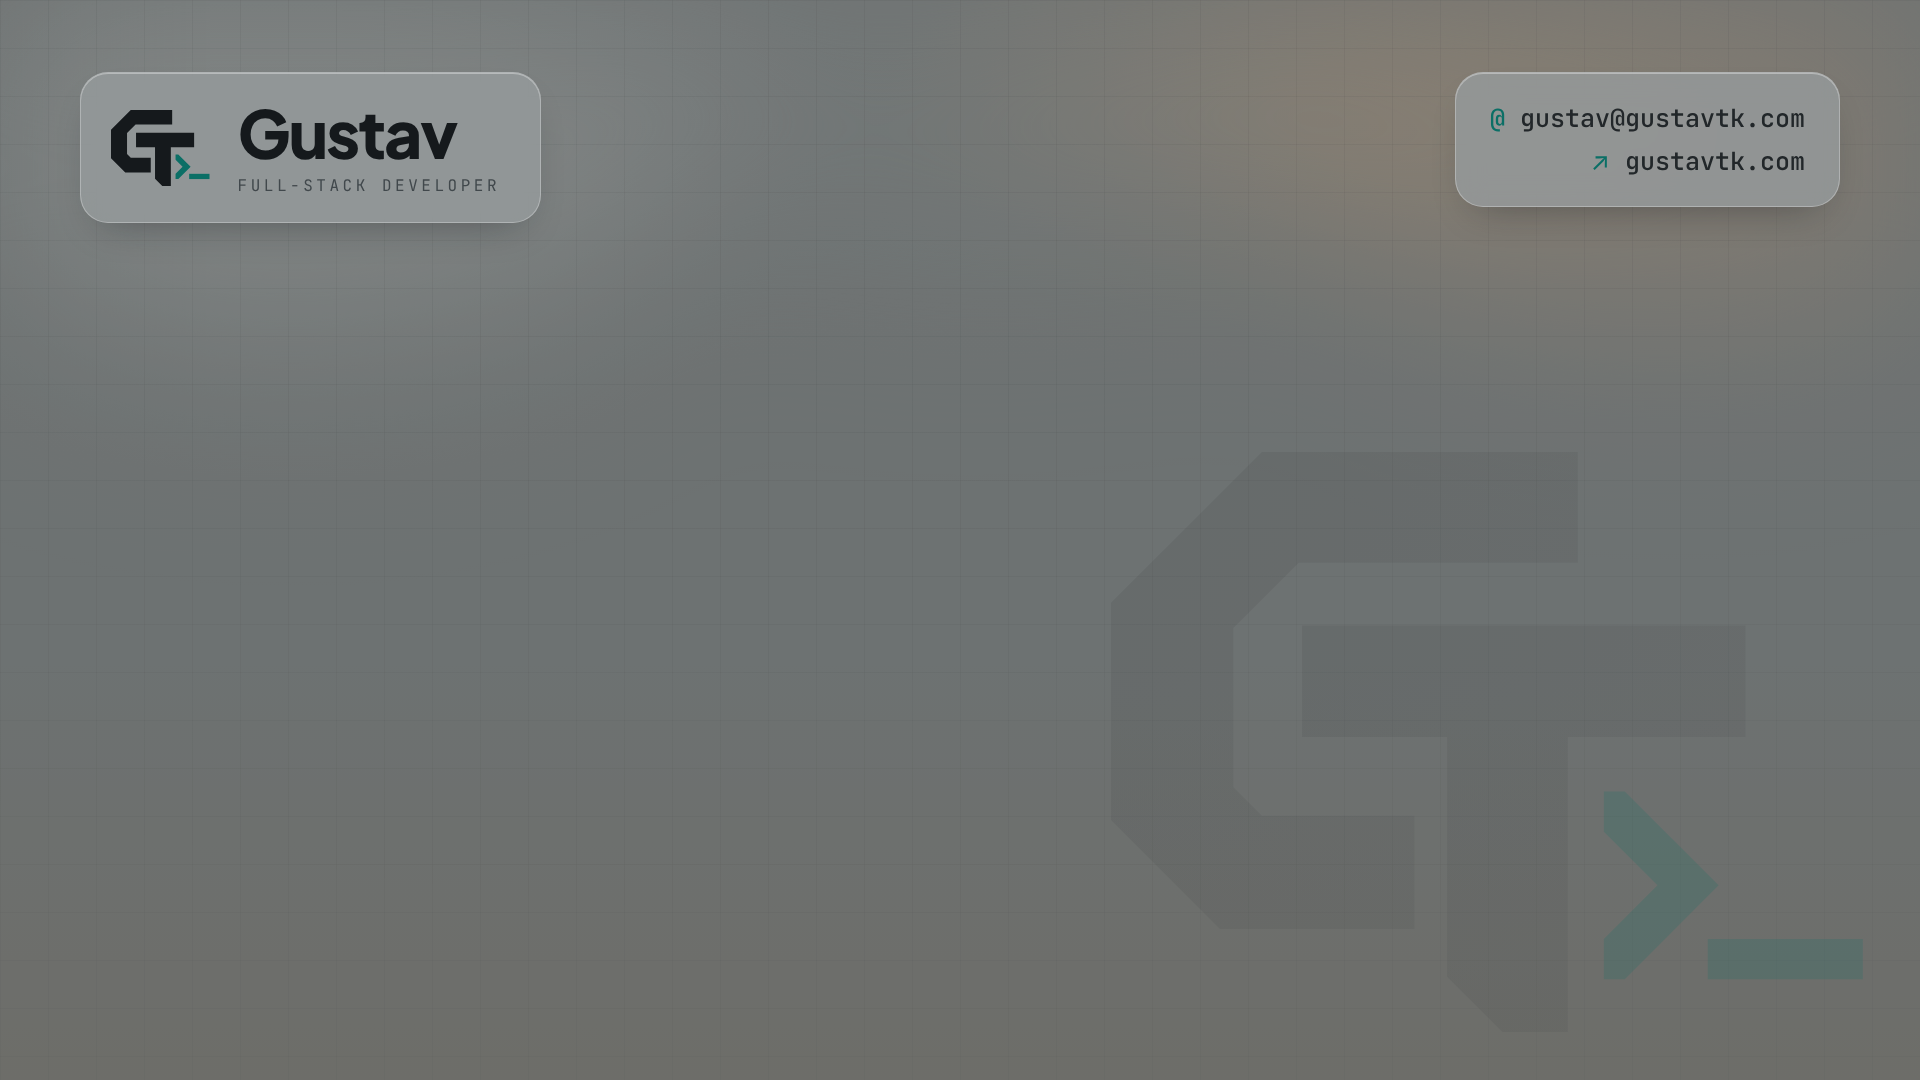
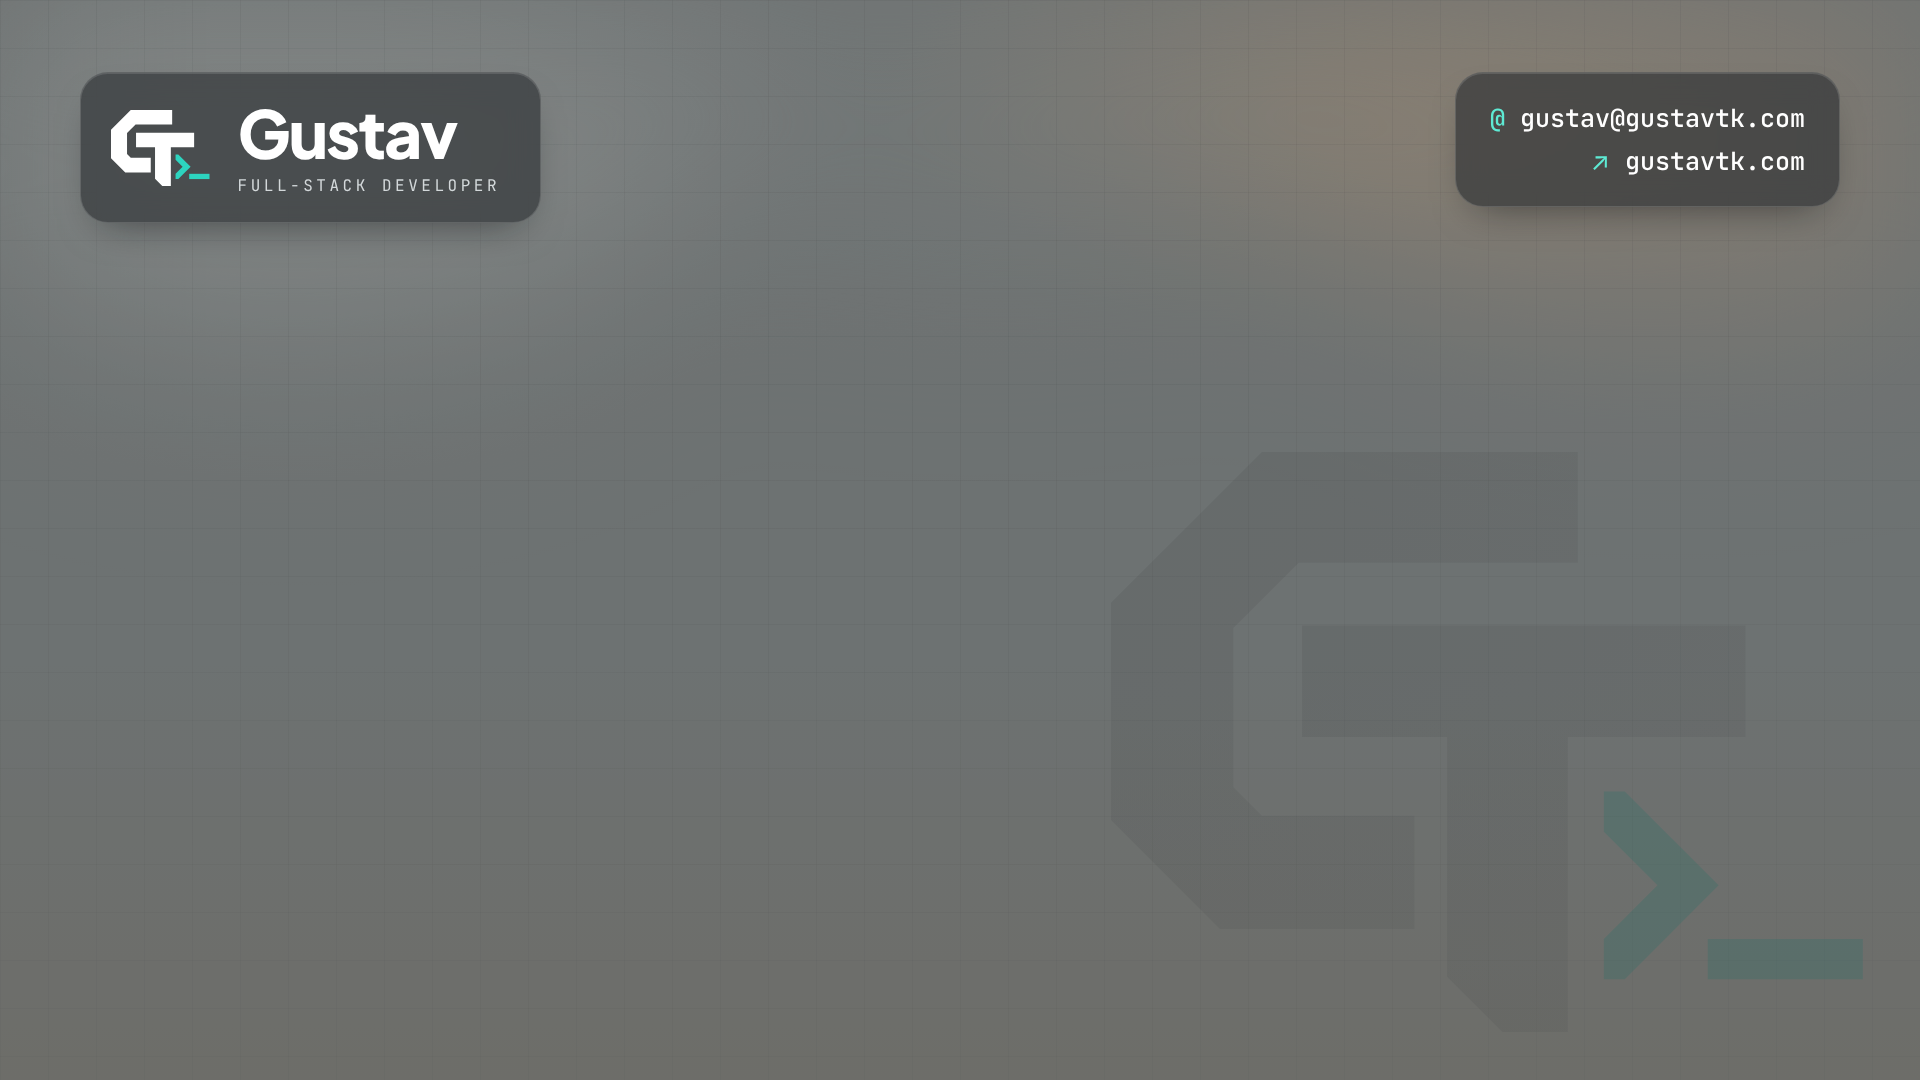
Glass Ash: white text on dark ash cards
Claude-Session: https://claude.ai/code/session_01H2TVSc56KQZrPADdEAeWoT

Changed region(s): [[0.0312, 0.0611, 0.2812, 0.2139], [0.75, 0.0611, 0.9688, 0.2139]]

diff --git a/meet-backgrounds/README.md b/meet-backgrounds/README.md
@@ -23,7 +23,7 @@ Logo, name and role sit top left; email and website top right; the middle stays 
 | `14-bookshelf.png` | Light-oak shelving at both edges, soft downlight on the wall behind you, mark framed on a shelf |
 | `15-blinds-light.png` | Minimal warm-ash wall with sun through blinds, plant left, framed mark on a sideboard |
 | `16-photo-office.png` | A generated photo of a grey home office (Higgsfield, Z Image): laptops removed, re-blurred, mark framed above the shelf |
-| `17-glass-ash.png` | The Glass layout in the photo office colours: ash-grey wall, cool window light left, warm lamp glow right, ash-grey cards |
+| `17-glass-ash.png` | The Glass layout in the photo office colours: ash-grey wall, cool window light left, warm lamp glow right, white text on dark ash cards |
 
 The room backgrounds (06, 11–16) keep the area behind your head a plain, mid-light wall so the
 edges of your hair and hands blend instead of glitching; every object sits at the edges. They
